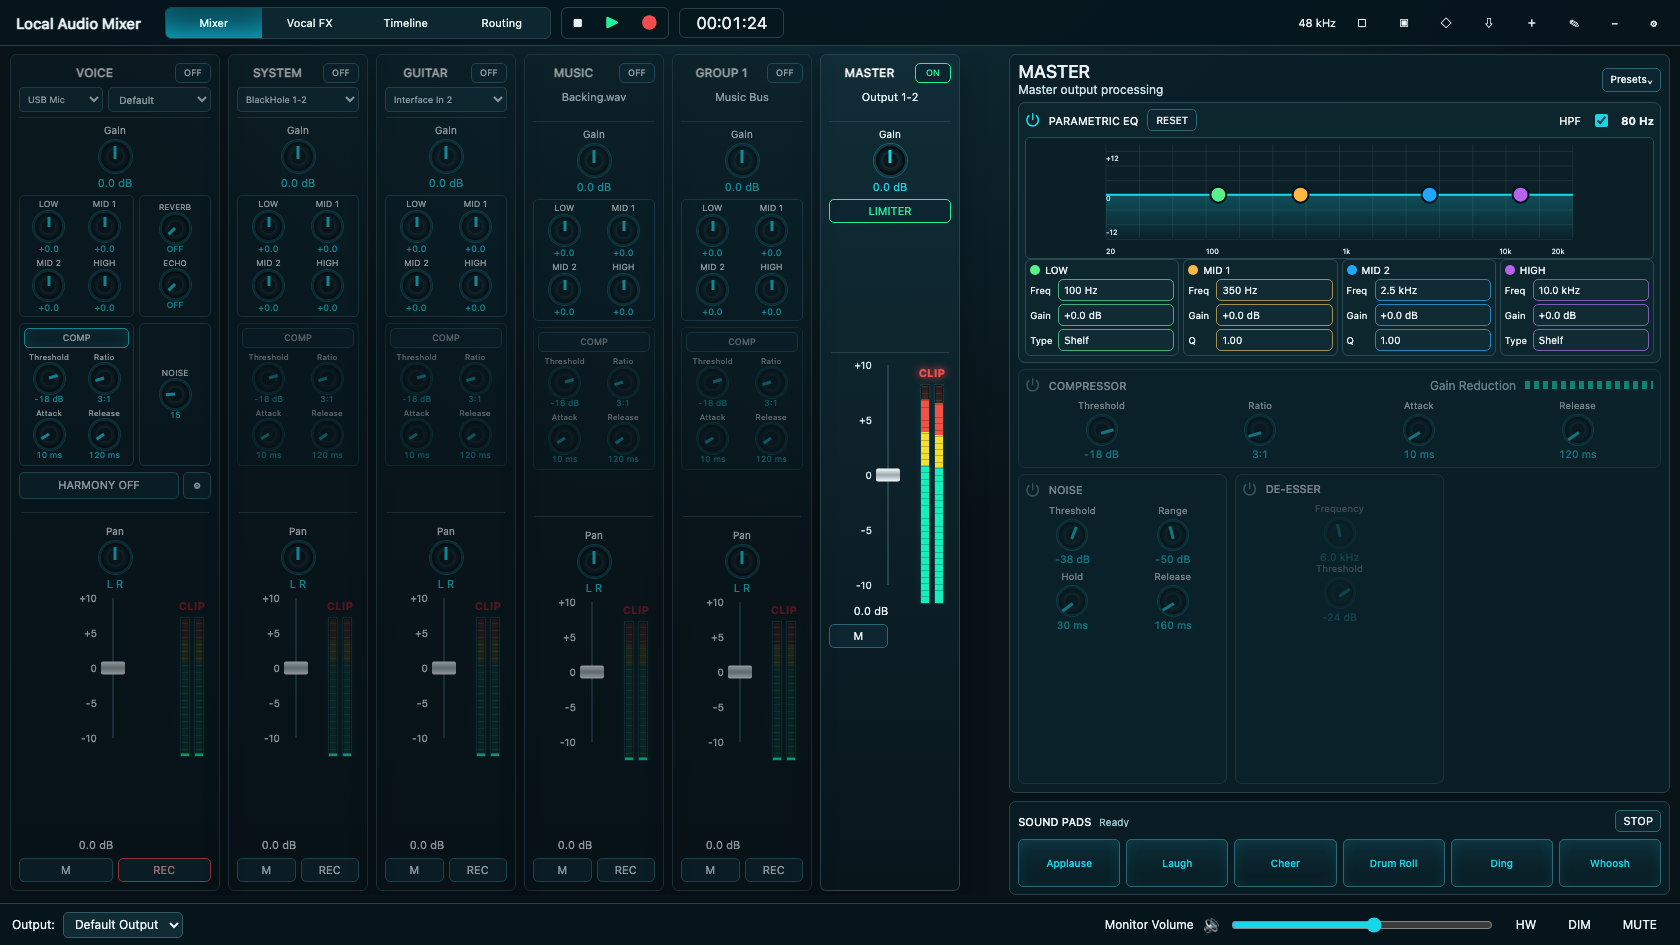
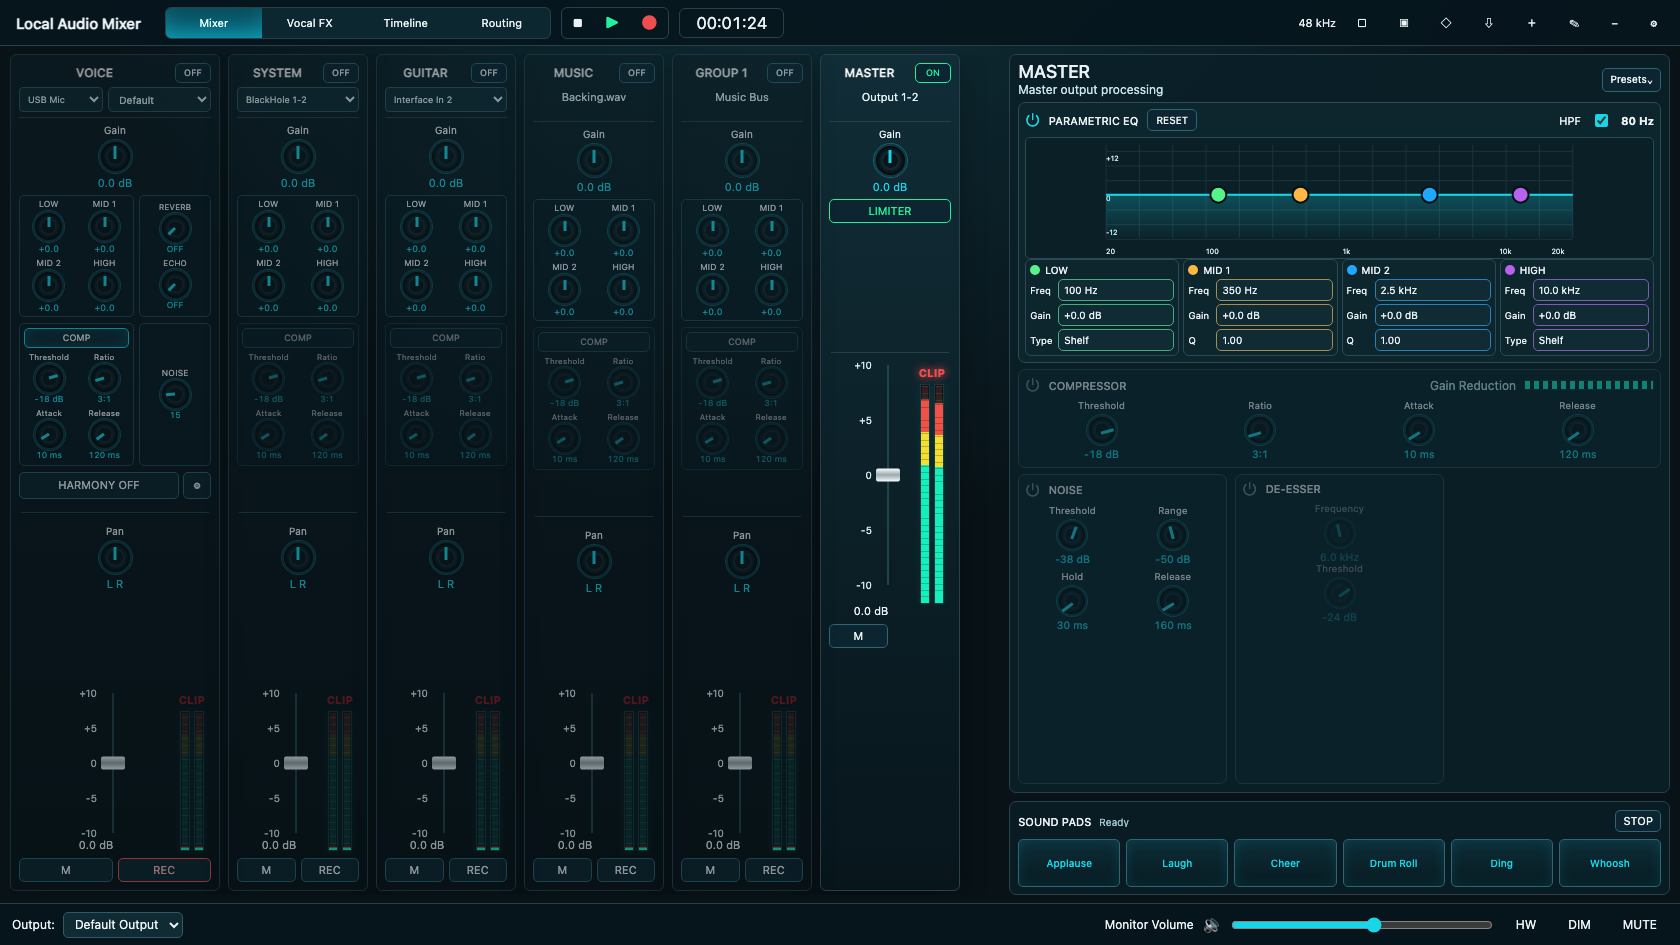
Rebalance channel fader spacing

diff --git a/apps/desktop/src/styles/app.css b/apps/desktop/src/styles/app.css
@@ -127,8 +127,8 @@
 .harmony-shortcut.is-placeholder { visibility: hidden; }
 .strip-divider { height: 1px; background: #24414a; margin: 7px 2px 6px; flex: 0 0 auto; }
 .send-pair { display: grid; grid-template-columns: 1fr 1fr; gap: 8px; margin-top: 5px; }
-.fader-meter-row { flex: 1 1 auto; display: grid; grid-template-columns: 1fr 38px; align-items: stretch; min-height: 156px; margin-top: 2px; }
-.strip-meter-stack { display: flex; flex-direction: column; align-items: center; gap: 4px; }
+.fader-meter-row { flex: 1 1 auto; display: grid; grid-template-columns: 1fr 38px; align-items: end; min-height: 156px; margin-top: 10px; }
+.strip-meter-stack { display: flex; flex-direction: column; align-items: center; justify-content: flex-end; gap: 4px; }
 .strip-actions { display: grid; grid-template-columns: 1fr 1fr; gap: 5px; min-height: 25px; align-content: end; }
 .master-spacer { flex: 1 1 auto; min-height: 60px; }
 .channel-strip.is-master .master-spacer { display: none; }

diff --git a/docs/progress.md b/docs/progress.md
@@ -4973,3 +4973,27 @@ Validation:
 
 Known limitations:
 - Manual confirmation of the reduced fader-to-button gap in the live desktop app is `NOT_RUN`.
+
+### Phase19 UX Checkpoint — Rebalance Fader Spacing
+
+Changed files:
+- `apps/desktop/src/styles/app.css`: moves the fader/meter group lower within each channel strip and adds top spacing from PAN.
+- `docs/progress.md`: records verification evidence.
+
+Implemented behavior:
+- Fader/meter no longer sits too close to PAN.
+- The fader/meter group aligns lower, reducing the remaining gap to the M/REC button row.
+- Master strip keeps its existing dedicated fader layout override.
+
+Validation:
+- command: `npm run typecheck`
+- exit/result: `0`; TypeScript passed.
+- command: `npm run test:visual`
+- exit/result: `0`; Playwright visual suite 6/6 passed.
+- command: `npm run check:file-size`
+- exit/result: `0`; file-size check passed with the existing `MixerPage.tsx 837` warning.
+- command: `npm run verify`
+- exit/result: `0`; plan, file-size, architecture, typecheck, Vitest 55/55, native CTest 43/43, engine self-test, device enumeration smoke, protocol smoke, UI build, and Electron main/preload build passed.
+
+Known limitations:
+- Manual confirmation of the fader spacing balance in the live desktop app is `NOT_RUN`.
